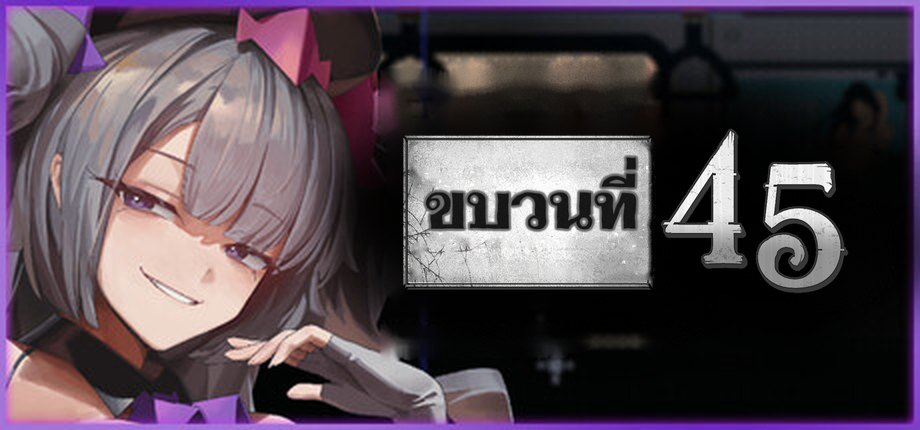
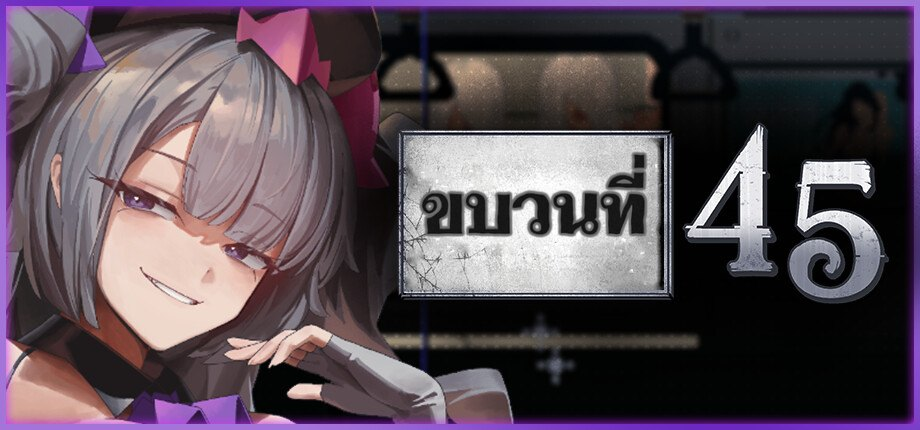
Truthful wording and sharper Train45 cover
Game cards now say exactly what was checked: Train45 = every line shown in the
game translated, Yohane = every text row translated (no "แปลครบทั้งเกม").
Train45 cover rebuilt from Steam's 2x header (920x430).

diff --git a/index.html b/index.html
@@ -68,7 +68,7 @@
         <article class="mod" id="train45">
           <div class="top">
             <div class="side">
-              <div class="shot"><img src="assets/cover-train45.jpg?v=5873c923" alt="ภาพปกเกม Train45" width="460" height="215" loading="lazy"></div>
+              <div class="shot"><img src="assets/cover-train45.jpg?v=429042e5" alt="ภาพปกเกม Train45" width="460" height="215" loading="lazy"></div>
               <a class="store" data-store="train45" href="#" target="_blank" rel="noopener">🎮 ดูเกมนี้บน Steam ↗</a>
             </div>
             <div class="body">
@@ -80,7 +80,7 @@
                 <span class="badge ai">🤖 แปลด้วย AI</span>
               </div>
               <ul>
-                <li>แปลครบทั้งเกม ทั้งบทพูด เมนู ไอเทม และซับเสียง</li>
+                <li>แปลข้อความครบทุกบรรทัดที่ขึ้นในเกม ทั้งบทพูด เมนู ไอเทม และซับเสียง</li>
                 <li>เลือก "ภาษาไทย" ได้จากเมนูตั้งค่าในเกมเลย โลโก้หน้าแรกก็เป็นภาษาไทย</li>
                 <li>ลบออกเมื่อไหร่ก็ได้ ไฟล์เกมเดิมไม่ถูกแก้</li>
               </ul>
@@ -121,7 +121,7 @@
                 <span class="badge ai">🤖 แปลด้วย AI</span>
               </div>
               <ul>
-                <li>แปลครบทั้งเกม ทั้งเนื้อเรื่อง เมนู การ์ด ไอเทม ศัตรู ชุด และคำขอ</li>
+                <li>แปลข้อความครบทุกบรรทัด ทั้งเนื้อเรื่อง เมนู การ์ด ไอเทม ศัตรู ชุด และคำขอ</li>
                 <li>ตัวหนังสือไทยแสดงสวย สระกับวรรณยุกต์ไม่ลอย โลโก้หน้าแรกก็เป็นภาษาไทย</li>
               </ul>
               <div class="actions">
